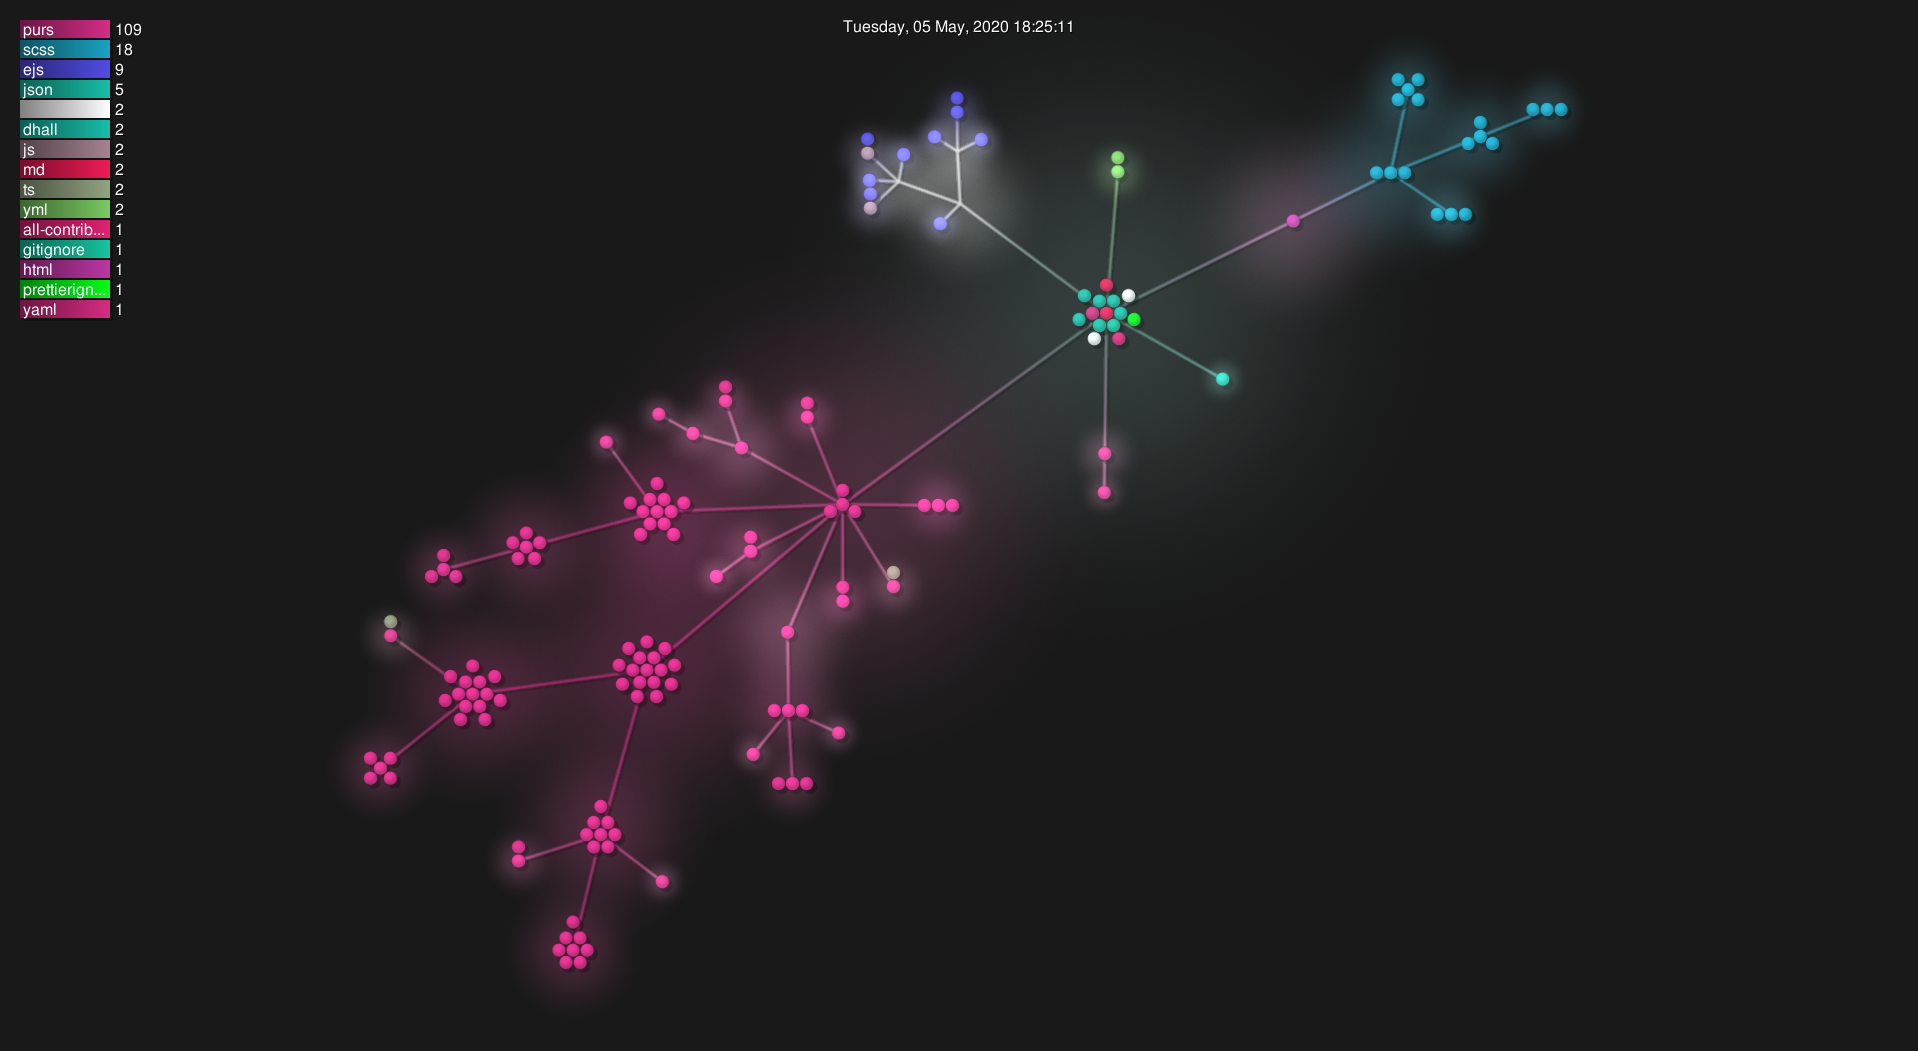
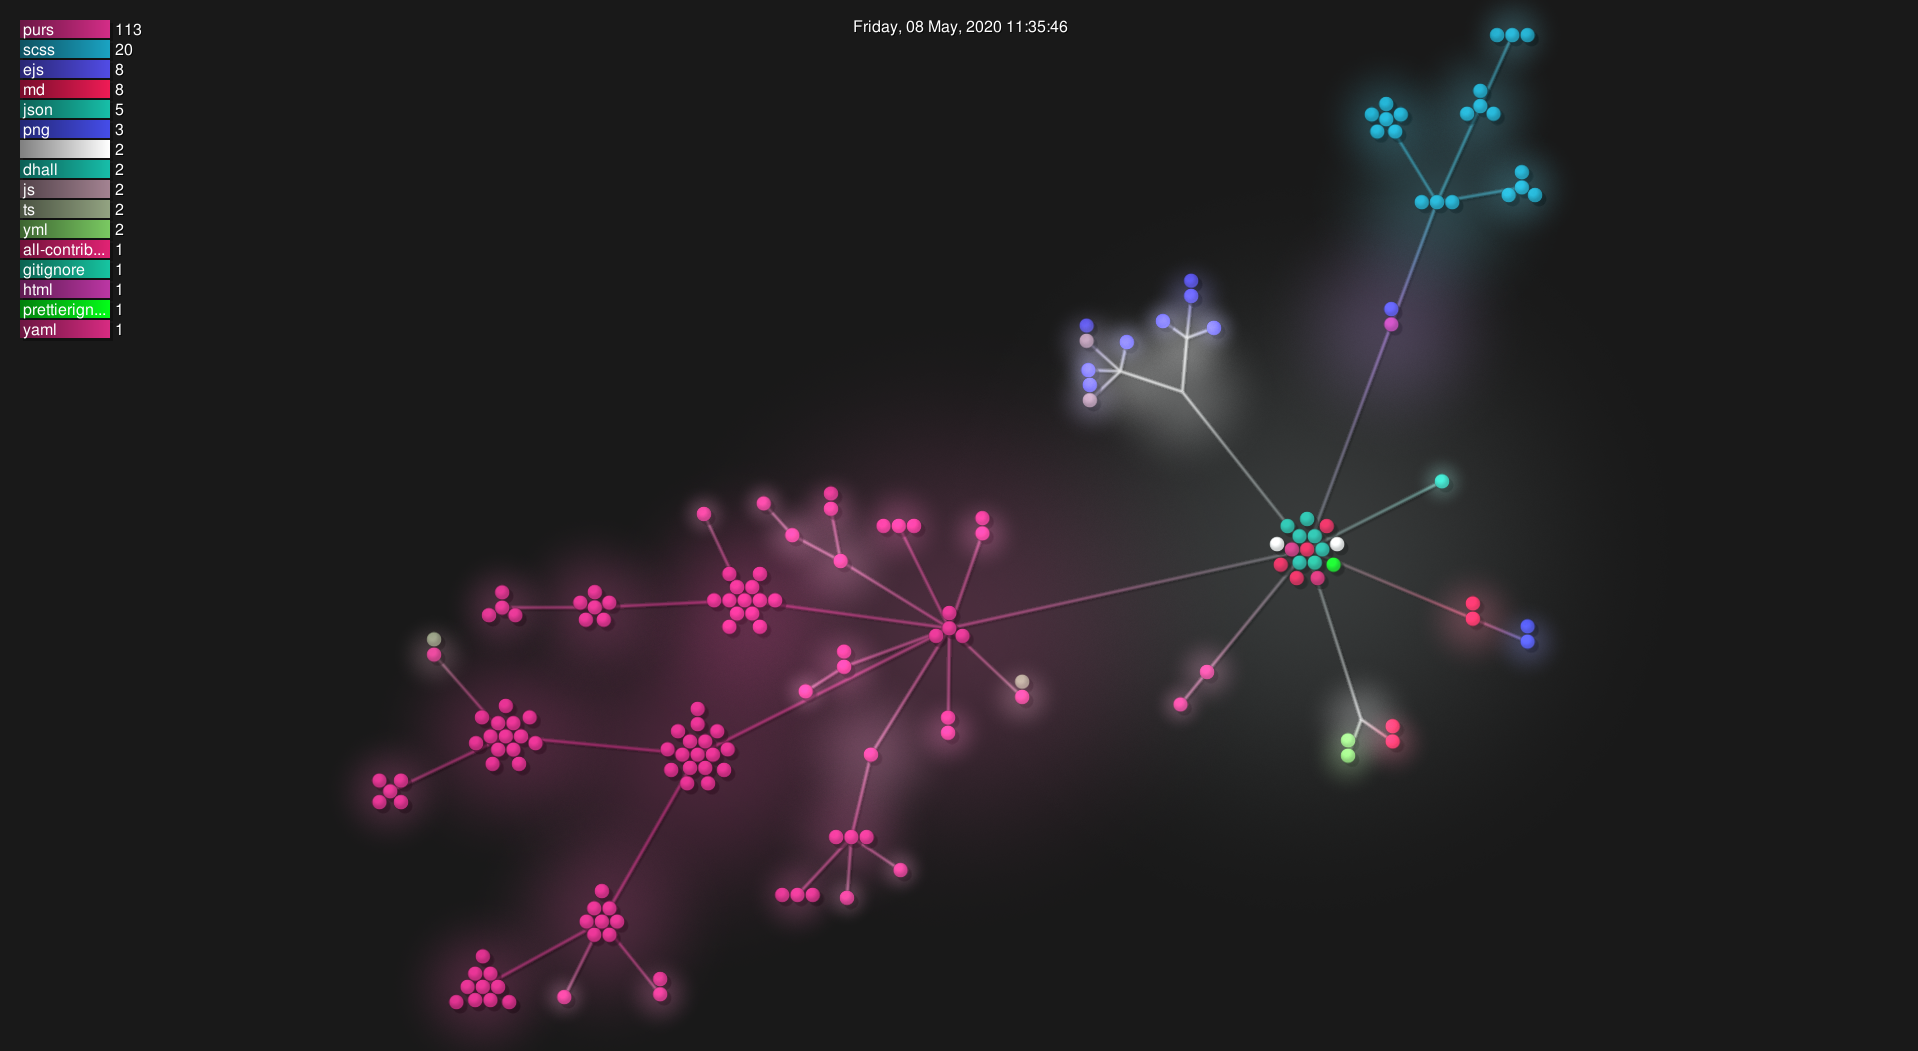
docs: more ie docs

Changed region(s): [[0.1846, 0.0, 0.8306, 1.0], [0.0, 0.0609, 0.0615, 0.3349], [0.4307, 0.0, 0.5537, 0.0304]]

diff --git a/infoeducatie/documentatie.md b/infoeducatie/documentatie.md
@@ -11,6 +11,27 @@ Proiectul a fost scis in [purescript](https://www.purescript.org/), un limbaj de
 - Proiectul respecta standardul [all-contributors](https://github.com/all-contributors/all-contributors)
 - Pentru CI & CD am folosit [semantic-release](https://semantic-release.gitbook.io/semantic-release/) impreuna cu [github-actions](https://github.com/features/actions)
 
+## De ce purescript
+
+Proiectul nu a fost scris in purescript la inceput. Pentru primele luni din development am folosit [typescript](), [react]() and [fp-ts](). Cand am inceput sa implementez algoritmul de inferenta a tipurilor am observat ca pana si folosind fp-ts, stivele de monazi din typescript erau foarte greu de folosit. Asa ca am inceput sa caut un limbaj de programare functionala
+
+Am incercat elm, am incercat fsharp, iar cand am descroperit purescript am stiut ca este limbajul potrivit:
+
+1. **Derivarea typeclassurilor**: Elm se lauda ca are o strategie unica pentru decodarea / encodarea json-ului deoarece in loc sa folosesti un simplu JSON.parse trebuie sa compui decodatori cea ce face ca totul sa fie safe. Cu toate astea, cantitaeta de biolerplate pentru putina siguranta este foarte mare. Purescript ofera derivarea de typeclassuri si implementatii generice pentru multe typeclassuri cea ce face purescript sa ofere siguranta din elm (nu exista erori la runtime) fara boilerplate.
+
+2. **Similar cu haskell**: Majoritatea resurselor legae de teoria tipurilor si sisteme de tipuri sunt scrise in haskell. Faputl ca purescript are 90% sintaxa din haskell a insemnat ca puteam sa utilizez cunostintele mele de haskell pentru acest proiect fara pronleme.
+
+3. **Package managment de calitate**: am folosit multi manageri de depentinte si pot zice cu confidenta ca spago este unul dintre cel mai solid dintre toate. Nu as exagera daca as zice ca spago sterge podeaua cu npm, pip si nuget. Acest lucru este cauzat in principal deoarece spago foloseste [seturi de pachete](https://github.com/purescript/package-sets)
+
+## De ce parcel
+
+Pana acum am folosit webpack si rollup pentru toate proiectele mele, asa ca am vrut sa incerc ceva nou. Pot zice cu confidenta ca parcel este o alegere solida pentru bundling fara a trebui configurat manual.
+
+## De ce scss
+
+1. **Mixins**: Am scris cateva mixinuri pe care le-am folosit pentru a refolosi stiluri in intreaga aplicatie.
+2. **Matematica la compile time**: la un moment dat am avut nevoie sa calculez a tangenta in stiluri. Scss calculeaza acea tangenta pentru mine la compile time asa ca nu trebuie sa hardcodez numere mai mult decat este necesar.
+
 # Arhitectura
 
 Purescript este un libmbaj de programare pur functional. Nici o functie nu are effecte secundare si totul este imutabil.
